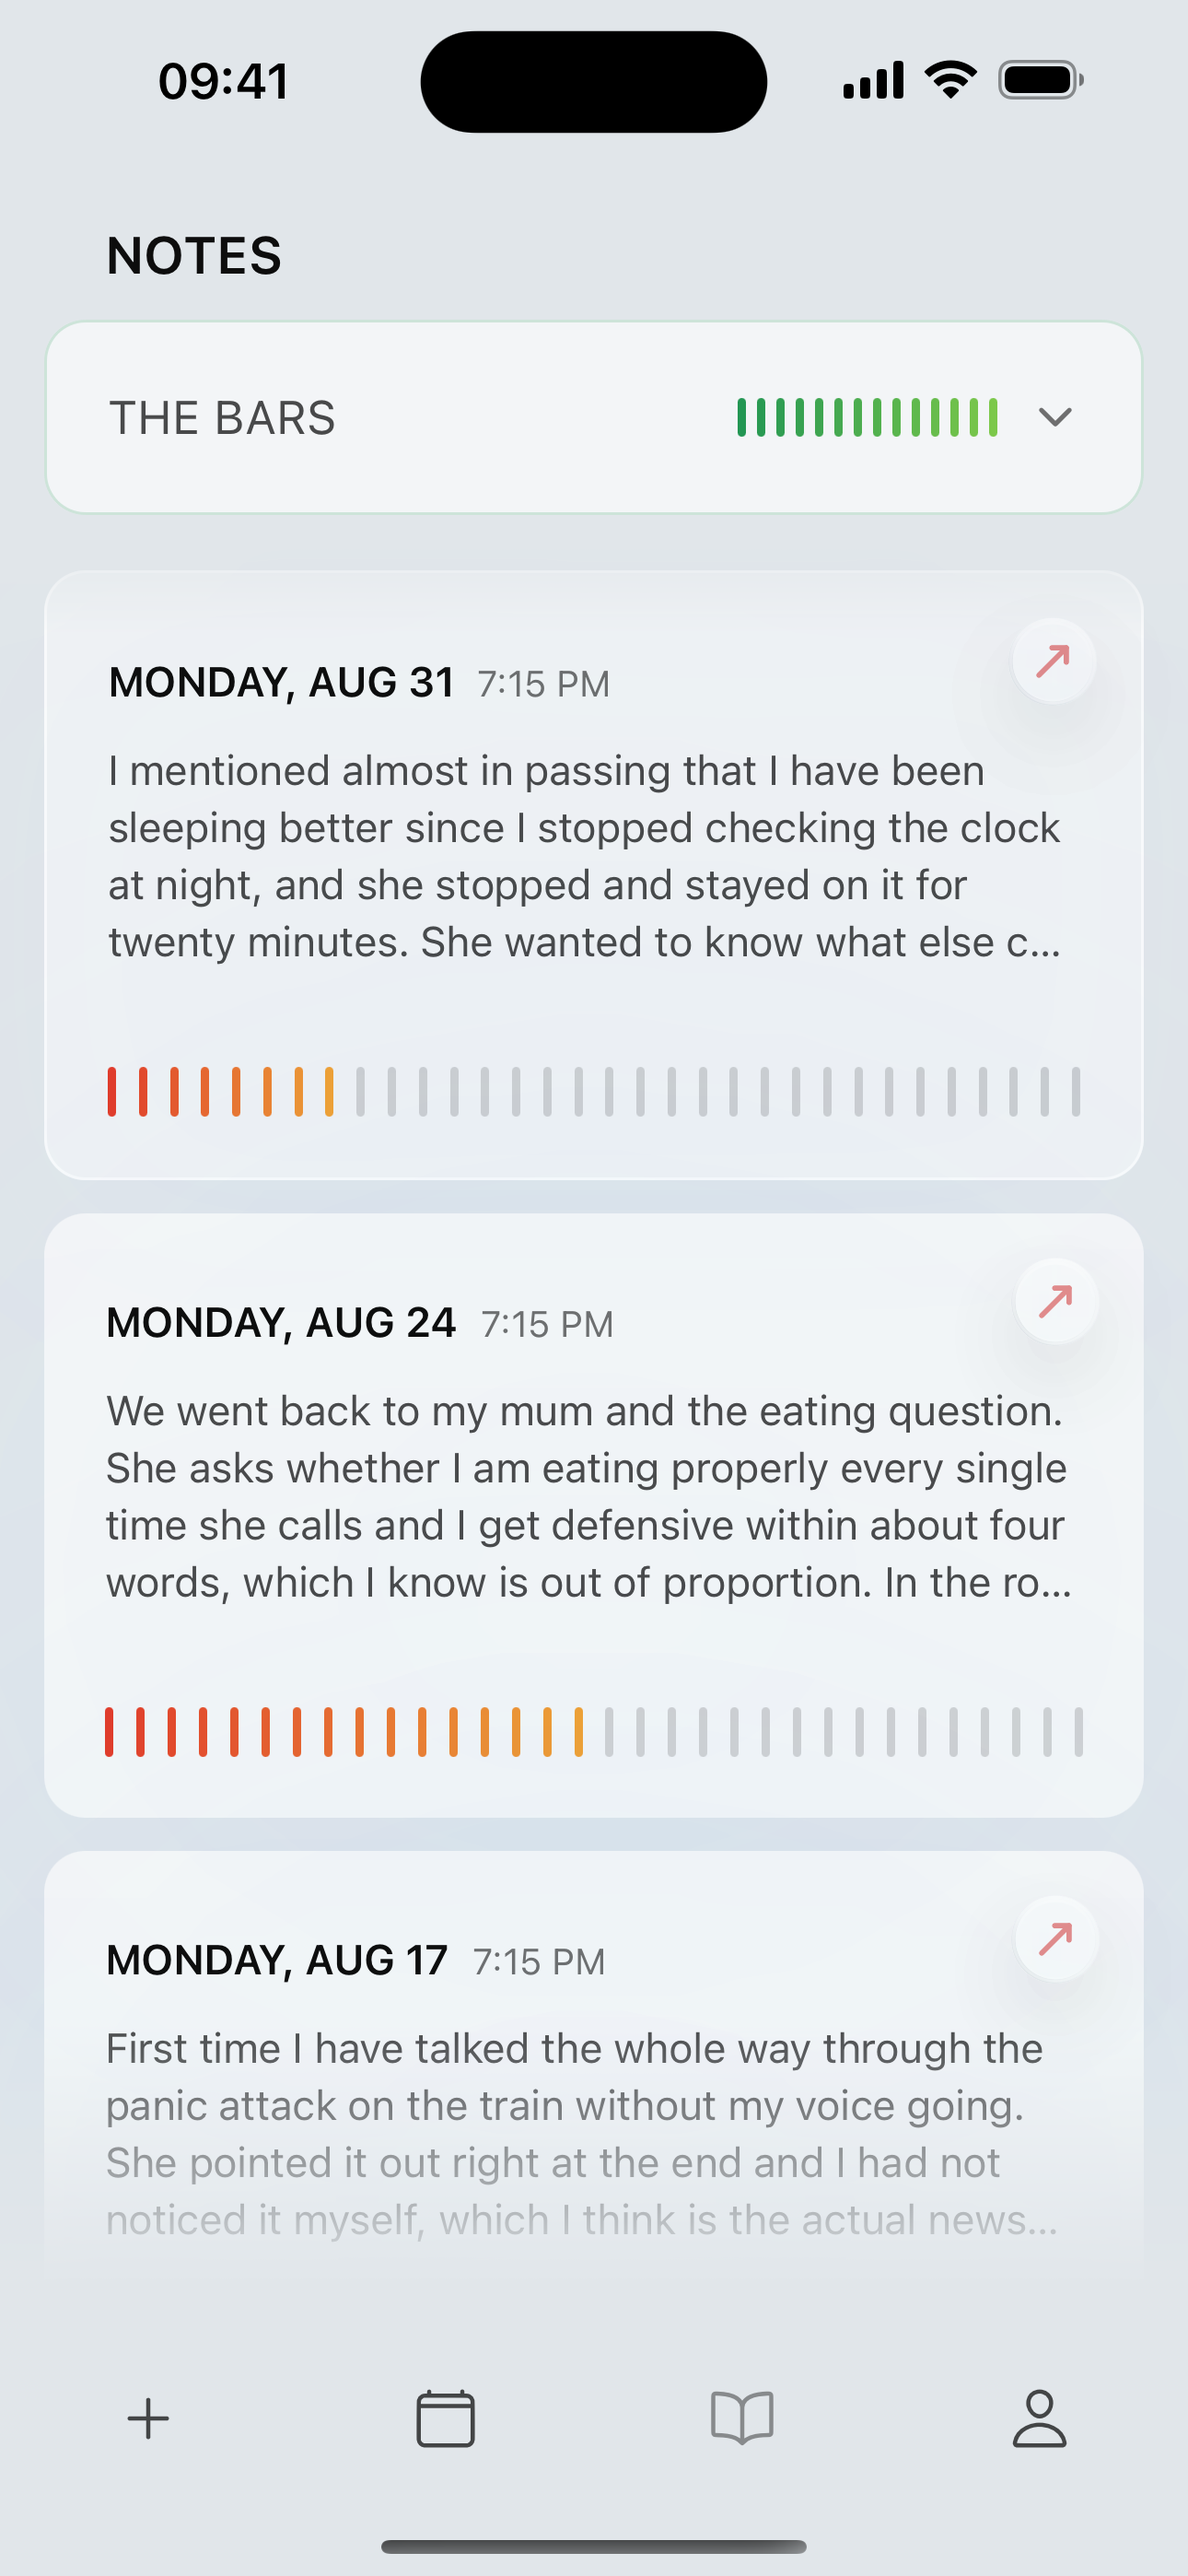
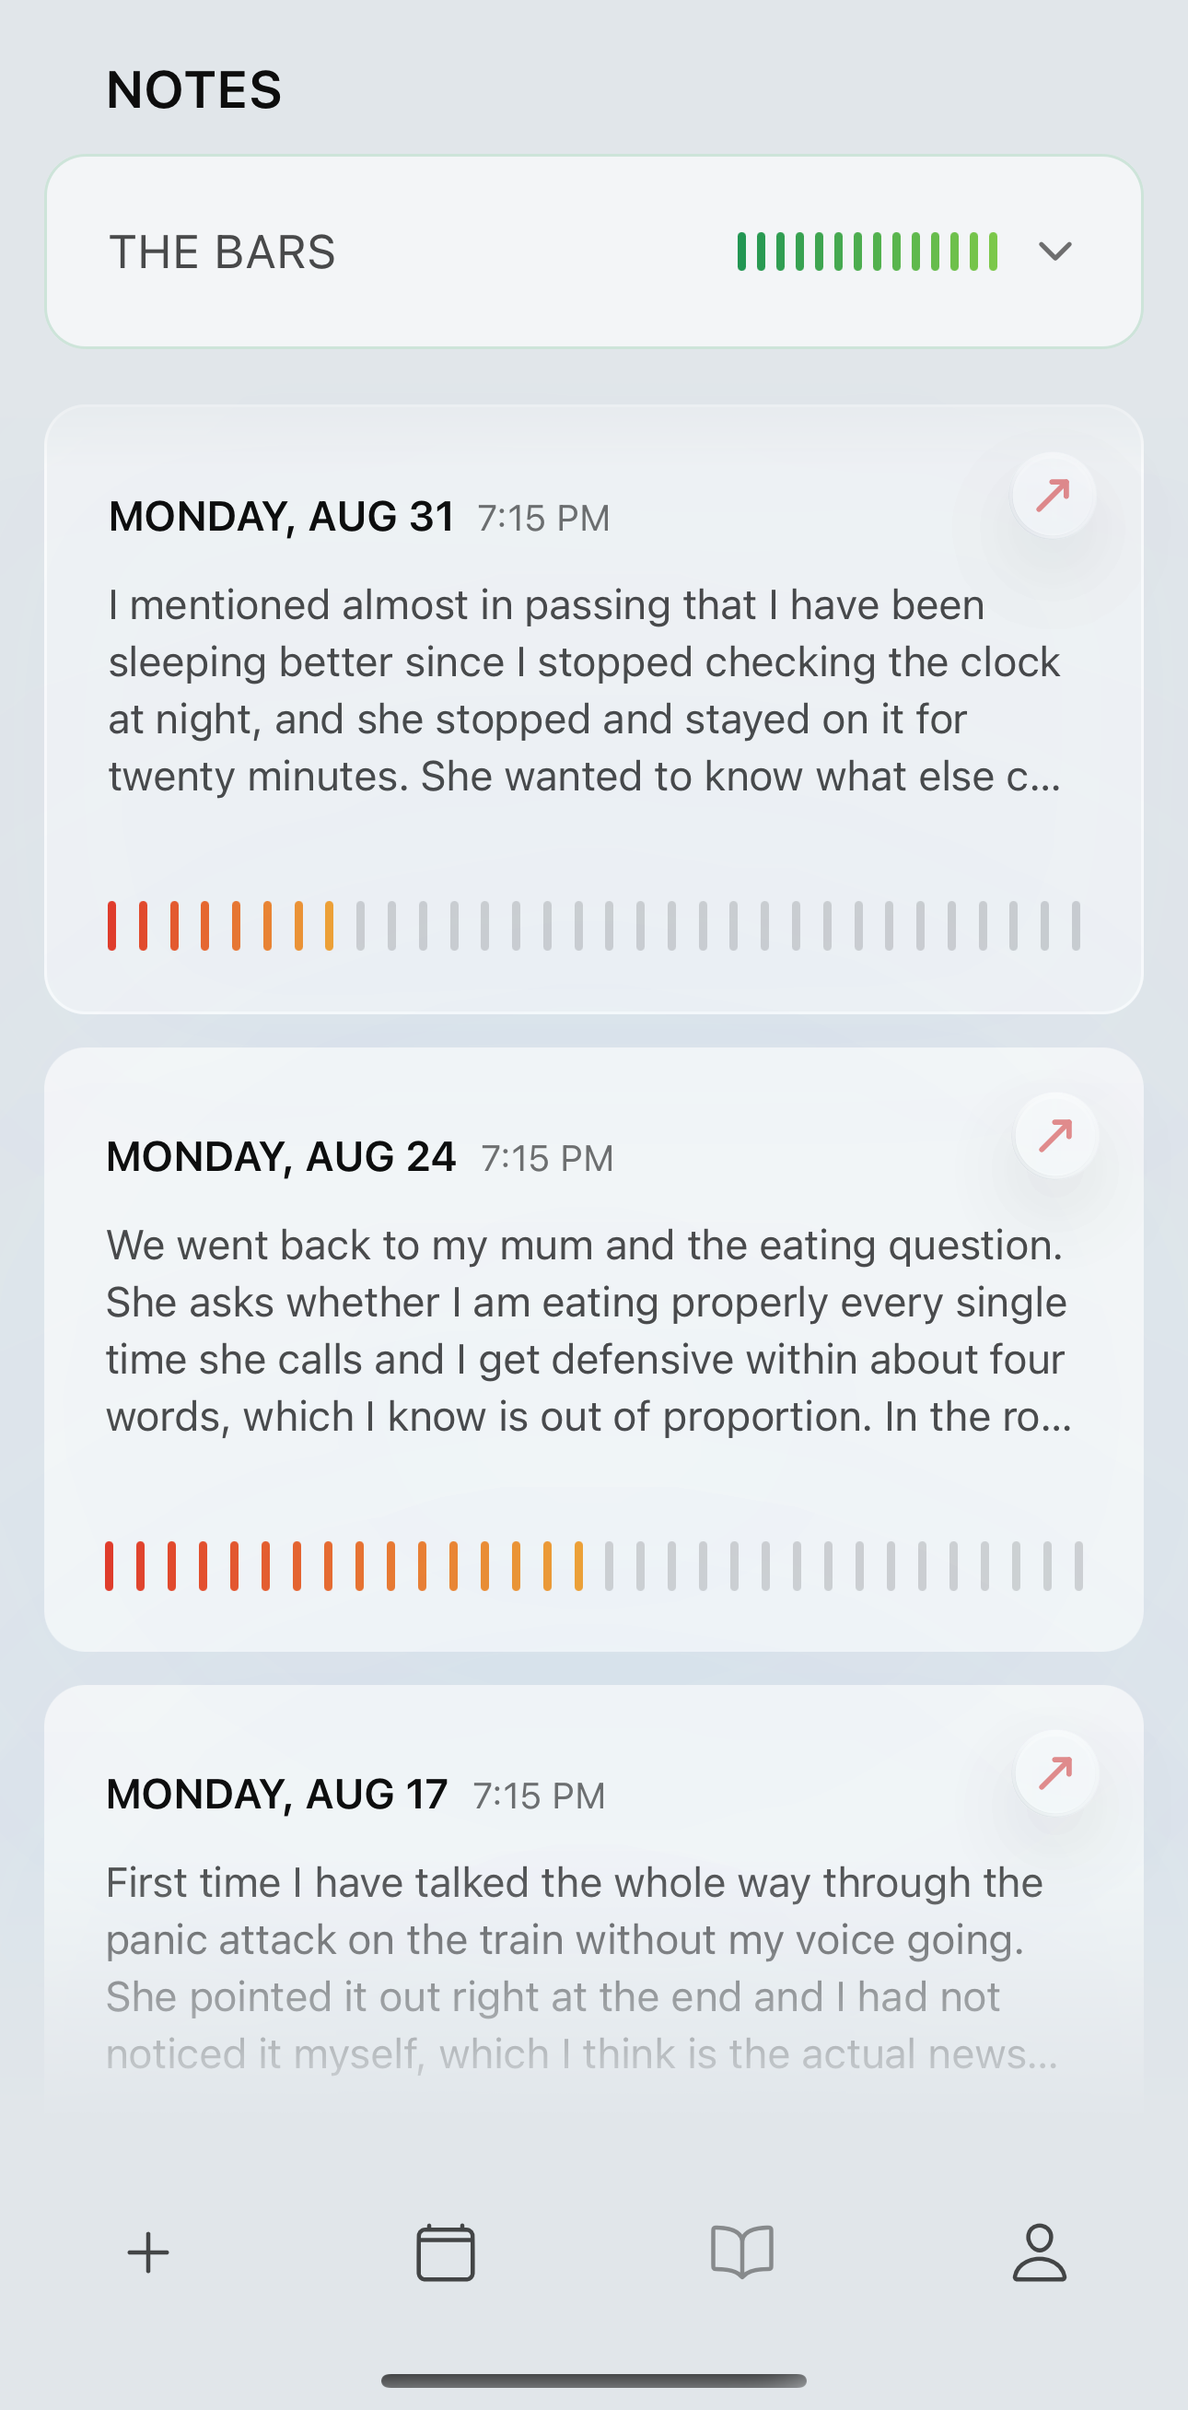
fix(onboarding): stop the reminder time pickers discarding the picked time
Tapping a time field and letting go put the previous value back. The iOS
picker is controlled: it takes `value` and pushes it down to the native
control whenever that prop changes. The Date was built inline during
render, so every render produced a new object holding the same time, and
the picker treated each one as a fresh value to snap back to. Anything
that re-rendered the screen was enough, including the state update the
picker's own onChange causes, so a pick could not survive itself.

The value and the change handler now keep their identity between renders
and change only when the answer does. The regression test asserts object
identity across a re-render rather than the time being equal, because the
times were always equal; it was the identity that broke it.

The notes screenshot on the notes screen is anchored to the top of the
artwork rather than centre-cropped, which was showing the middle of the
list. It is sized against the artwork so the first note is cut at its
midpoint, and the device status bar is trimmed from the asset: a second
09:41 halfway down the screen reads as a rendering fault.

diff --git a/app/(onboarding)/reminder-times.tsx b/app/(onboarding)/reminder-times.tsx
@@ -1,4 +1,4 @@
-import { useCallback, useState } from 'react';
+import { useCallback, useMemo, useState } from 'react';
 import { Platform, StyleSheet, View } from 'react-native';
 import { useRouter } from 'expo-router';
 import DateTimePicker from '@react-native-community/datetimepicker';
@@ -27,18 +27,48 @@ export default function ReminderTimesScreen() {
         [setAnswer],
     );
 
-    const rows: { slot: Slot; label: string; hint: string; minutes: number }[] = [
+    /**
+     * Both the value and the handler have to keep their identity between
+     * renders.
+     *
+     * The iOS picker is controlled: it takes `value` and pushes it back down to
+     * the native control whenever the prop changes. Building the Date inline
+     * made a new object on every render, so the moment anything re-rendered the
+     * screen the native picker was handed a "new" value and snapped back to it,
+     * throwing away what the user had just scrolled to. Tapping the field and
+     * letting go was enough to trigger it.
+     */
+    const morningValue = useMemo(
+        () => minutesToDate(answers.morningMinutes),
+        [answers.morningMinutes],
+    );
+    const eveningValue = useMemo(
+        () => minutesToDate(answers.eveningMinutes),
+        [answers.eveningMinutes],
+    );
+    const onMorningChange = useMemo(() => change('morning'), [change]);
+    const onEveningChange = useMemo(() => change('evening'), [change]);
+
+    const rows: {
+        slot: Slot;
+        label: string;
+        hint: string;
+        value: Date;
+        onChange: (event: DateTimePickerEvent, picked?: Date) => void;
+    }[] = [
         {
             slot: 'morning',
             label: REMINDER_TIMES_COPY.morningLabel,
             hint: REMINDER_TIMES_COPY.morningHint,
-            minutes: answers.morningMinutes,
+            value: morningValue,
+            onChange: onMorningChange,
         },
         {
             slot: 'evening',
             label: REMINDER_TIMES_COPY.eveningLabel,
             hint: REMINDER_TIMES_COPY.eveningHint,
-            minutes: answers.eveningMinutes,
+            value: eveningValue,
+            onChange: onEveningChange,
         },
     ];
 
@@ -57,7 +87,7 @@ export default function ReminderTimesScreen() {
         >
             <View style={ styles.rows }>
                 { rows.map((row, index) => {
-                    const value = minutesToDate(row.minutes);
+                    const { value } = row;
 
                     return (
                         <View key={ row.slot }>
@@ -80,7 +110,7 @@ export default function ReminderTimesScreen() {
                                         display="compact"
                                         themeVariant="light"
                                         accessibilityLabel={ `${row.label}, ${timeLabel(value)}` }
-                                        onChange={ change(row.slot) }
+                                        onChange={ row.onChange }
                                     />
                                 ) : (
                                     <Button
@@ -101,12 +131,10 @@ export default function ReminderTimesScreen() {
 
             { androidSlot !== null && (
                 <DateTimePicker
-                    value={ minutesToDate(
-                        androidSlot === 'morning' ? answers.morningMinutes : answers.eveningMinutes,
-                    ) }
+                    value={ androidSlot === 'morning' ? morningValue : eveningValue }
                     mode="time"
                     display="default"
-                    onChange={ change(androidSlot) }
+                    onChange={ androidSlot === 'morning' ? onMorningChange : onEveningChange }
                 />
             ) }
         </OnboardingScreen>

diff --git a/app/(onboarding)/note-preview.tsx b/app/(onboarding)/note-preview.tsx
@@ -15,6 +15,19 @@ import { TEXT_COLORS } from 'designs/designs-colors';
 /** The scroll padding this screen's image deliberately breaks out of. */
 const CONTENT_PADDING = 24;
 
+/** The screenshot's own proportions, so nothing is stretched. */
+const NOTES_IMAGE_ASPECT = 1290 / 2616;
+
+/**
+ * How much of the screenshot to leave visible.
+ *
+ * Measured against the artwork: the first note card runs from 435 to 1085 in
+ * the trimmed image, so this cuts it at its midpoint. The card is visibly
+ * mid-sentence at the edge, which is the point; any more and it reads as a
+ * framed thumbnail rather than a list carrying on past the screen.
+ */
+const VISIBLE_HEIGHT = 230;
+
 export default function NotePreviewScreen() {
     const router = useRouter();
     const { answers } = useOnboardingAnswers();
@@ -51,15 +64,16 @@ export default function NotePreviewScreen() {
                 </View>
             </View>
 
-            { /* Runs off the bottom of the screen on purpose: the list carries
-                 on past the fold, which says "these accumulate" better than a
-                 neatly framed thumbnail would. Breaks out of the scroll
-                 padding so it reaches all three edges. */ }
+            { /* Sits on the bottom edge showing only the top of the list, so
+                 the first note is cut mid-card and the list reads as carrying
+                 on past the screen. Breaks out of the scroll padding to reach
+                 the edges; the image is absolutely positioned so the window
+                 clips it from the top instead of scaling it to fit. */ }
             <View style={ styles.previewWindow }>
                 <Image
                     source={ require('../../assets/illustrations/notes-list-preview.png') as ImageSourcePropType }
                     style={ styles.previewImage }
-                    resizeMode="cover"
+                    resizeMode="contain"
                     accessible
                     accessibilityLabel="A list of past therapy notes, each with the date of its session"
                 />
@@ -88,13 +102,17 @@ const styles = StyleSheet.create({
         marginHorizontal: -CONTENT_PADDING,
         // Cancels the scroll's bottom padding so the image meets the edge.
         marginBottom: -CONTENT_PADDING,
-        height: 260,
+        height: VISIBLE_HEIGHT,
         overflow: 'hidden',
     },
     previewImage: {
-        width: '100%',
-        // Taller than the window, anchored at the top, so the list is cut off
-        // rather than squashed.
-        height: 560,
+        // Absolute, so the window's height clips the image from the top rather
+        // than squashing it. resizeMode "cover" centred the crop, which showed
+        // the middle of the list instead of the top of it.
+        position: 'absolute',
+        top: 0,
+        left: 0,
+        right: 0,
+        aspectRatio: NOTES_IMAGE_ASPECT,
     },
 });

diff --git a/app/__tests__/onboarding-reminder-times.test.tsx b/app/__tests__/onboarding-reminder-times.test.tsx
@@ -95,6 +95,48 @@ describe('reminder times: picking a time', () => {
         view.unmount();
     });
 
+    it('hands the picker the same value object across re-renders', async () => {
+        const view = renderScreen();
+        await waitFor(() => expect(morningPicker()).toBeDefined());
+
+        const first = morningPicker()!;
+        mockPickers.length = 0;
+
+        // Anything at all that re-renders the screen. The iOS picker is
+        // controlled: a value it has not seen before is pushed down to the
+        // native control, which snaps the wheel back and discards whatever the
+        // user had just scrolled to. Tapping and releasing was enough.
+        view.rerender(
+            <OnboardingAnswersProvider>
+                <ReminderTimesScreen />
+            </OnboardingAnswersProvider>,
+        );
+
+        await waitFor(() => expect(morningPicker()).toBeDefined());
+        const second = morningPicker()!;
+
+        expect(second.value).toBe(first.value);
+        expect(second.onChange).toBe(first.onChange);
+        view.unmount();
+    });
+
+    it('gives the picker a new value only when the answer actually changes', async () => {
+        const view = renderScreen();
+        await waitFor(() => expect(morningPicker()).toBeDefined());
+
+        const before = morningPicker()!;
+        await act(async () => {
+            (before.onChange as (e: unknown, d?: Date) => void)({ type: 'set' }, at(6, 45));
+        });
+
+        await waitFor(() => {
+            const after = morningPicker()!;
+            expect((after.value as Date).getHours()).toBe(6);
+            expect((after.value as Date).getMinutes()).toBe(45);
+        });
+        view.unmount();
+    });
+
     it('keeps the picked time when navigating away and back', async () => {
         const first = renderScreen();
         await waitFor(() => expect(morningPicker()).toBeDefined());

diff --git a/app/__tests__/onboarding-note-preview.test.tsx b/app/__tests__/onboarding-note-preview.test.tsx
@@ -90,12 +90,17 @@ describe('onboarding note preview', () => {
         ).toBeTruthy();
     });
 
-    it('lets the notes image run past the bottom edge', () => {
+    it('shows the top of the list and clips the rest, rather than the middle', () => {
         const { getByLabelText } = render(<NotePreviewScreen />);
 
         const image = getByLabelText('A list of past therapy notes, each with the date of its session');
-        // Taller than the window that clips it, so the list is cut off rather
-        // than squashed into a thumbnail.
-        expect(image.props.style.height).toBeGreaterThan(260);
+
+        // Anchored to the top of the screenshot. A centred crop showed the
+        // middle of the list, which is where the previous version went wrong.
+        expect(image.props.style.position).toBe('absolute');
+        expect(image.props.style.top).toBe(0);
+        // Its own proportions, so nothing is stretched.
+        expect(image.props.style.aspectRatio).toBeCloseTo(1290 / 2616, 5);
+        expect(image.props.resizeMode).toBe('contain');
     });
 });
